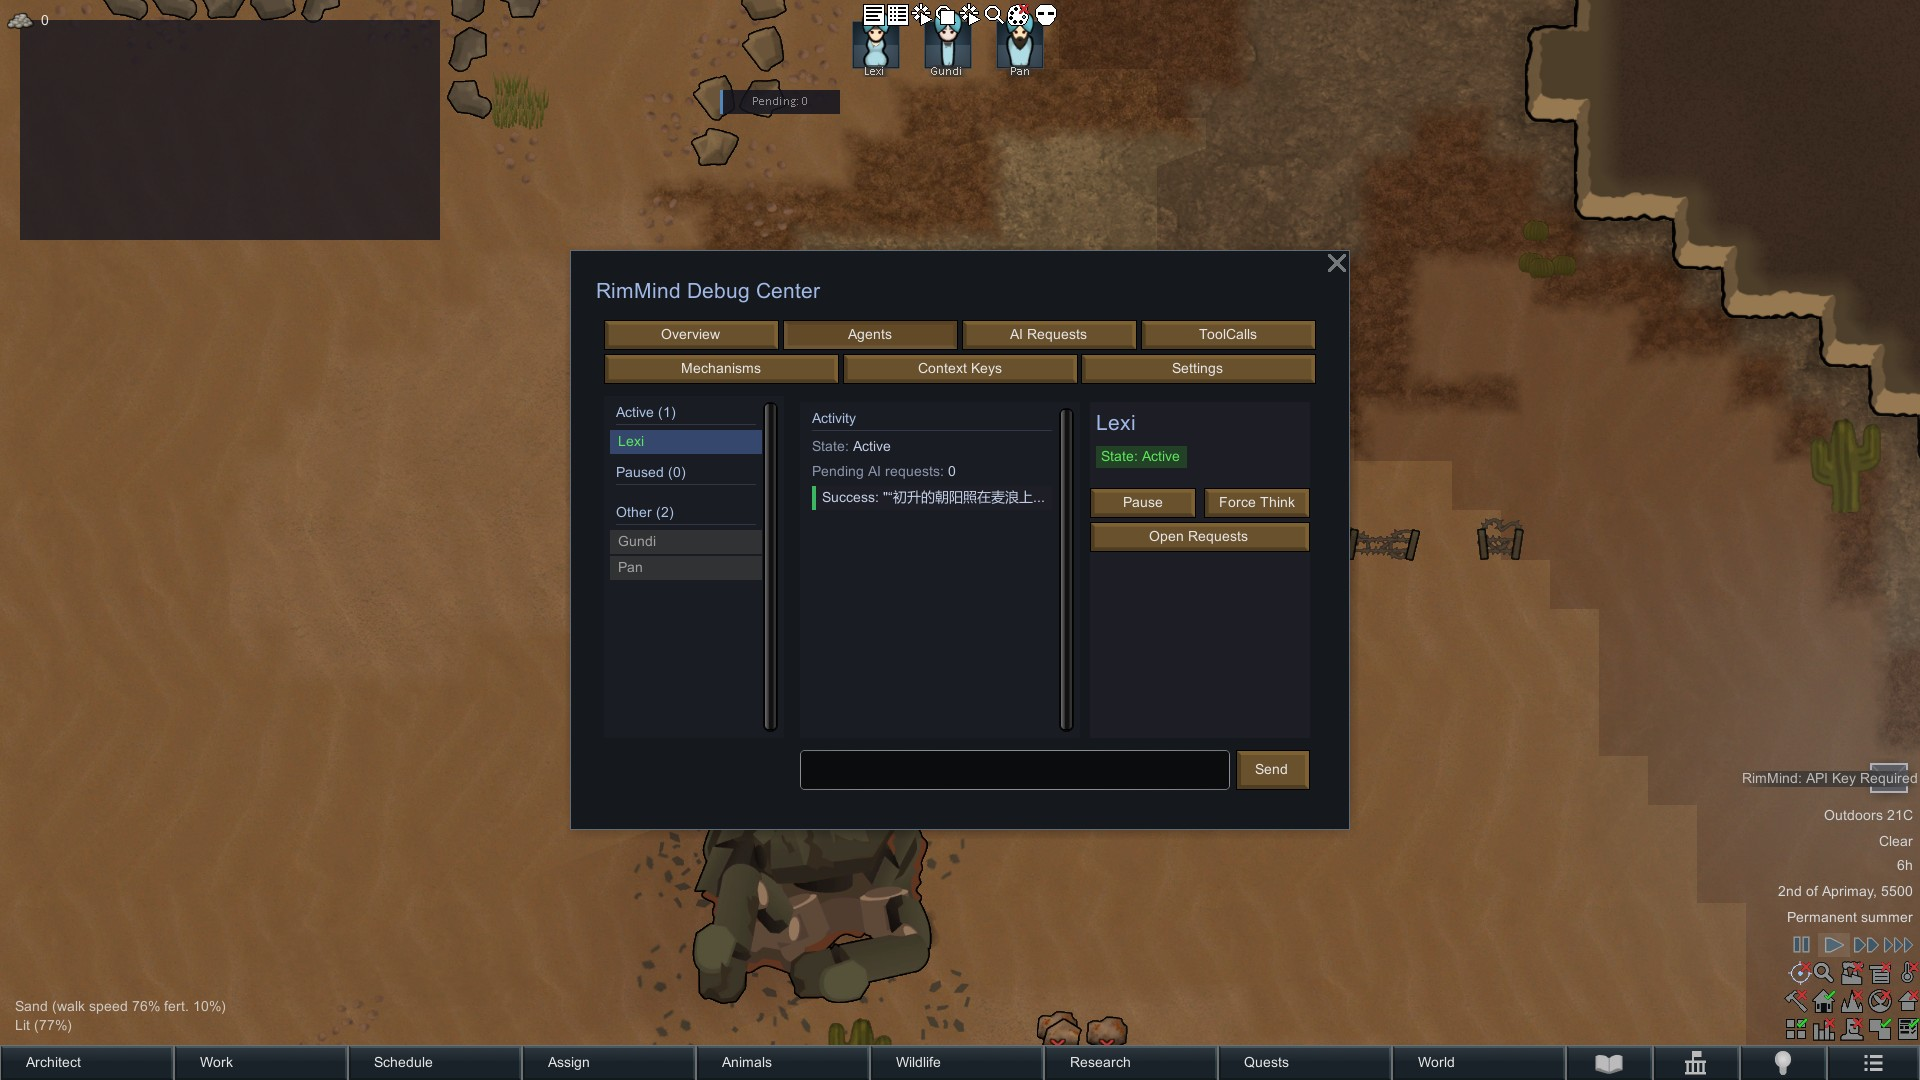
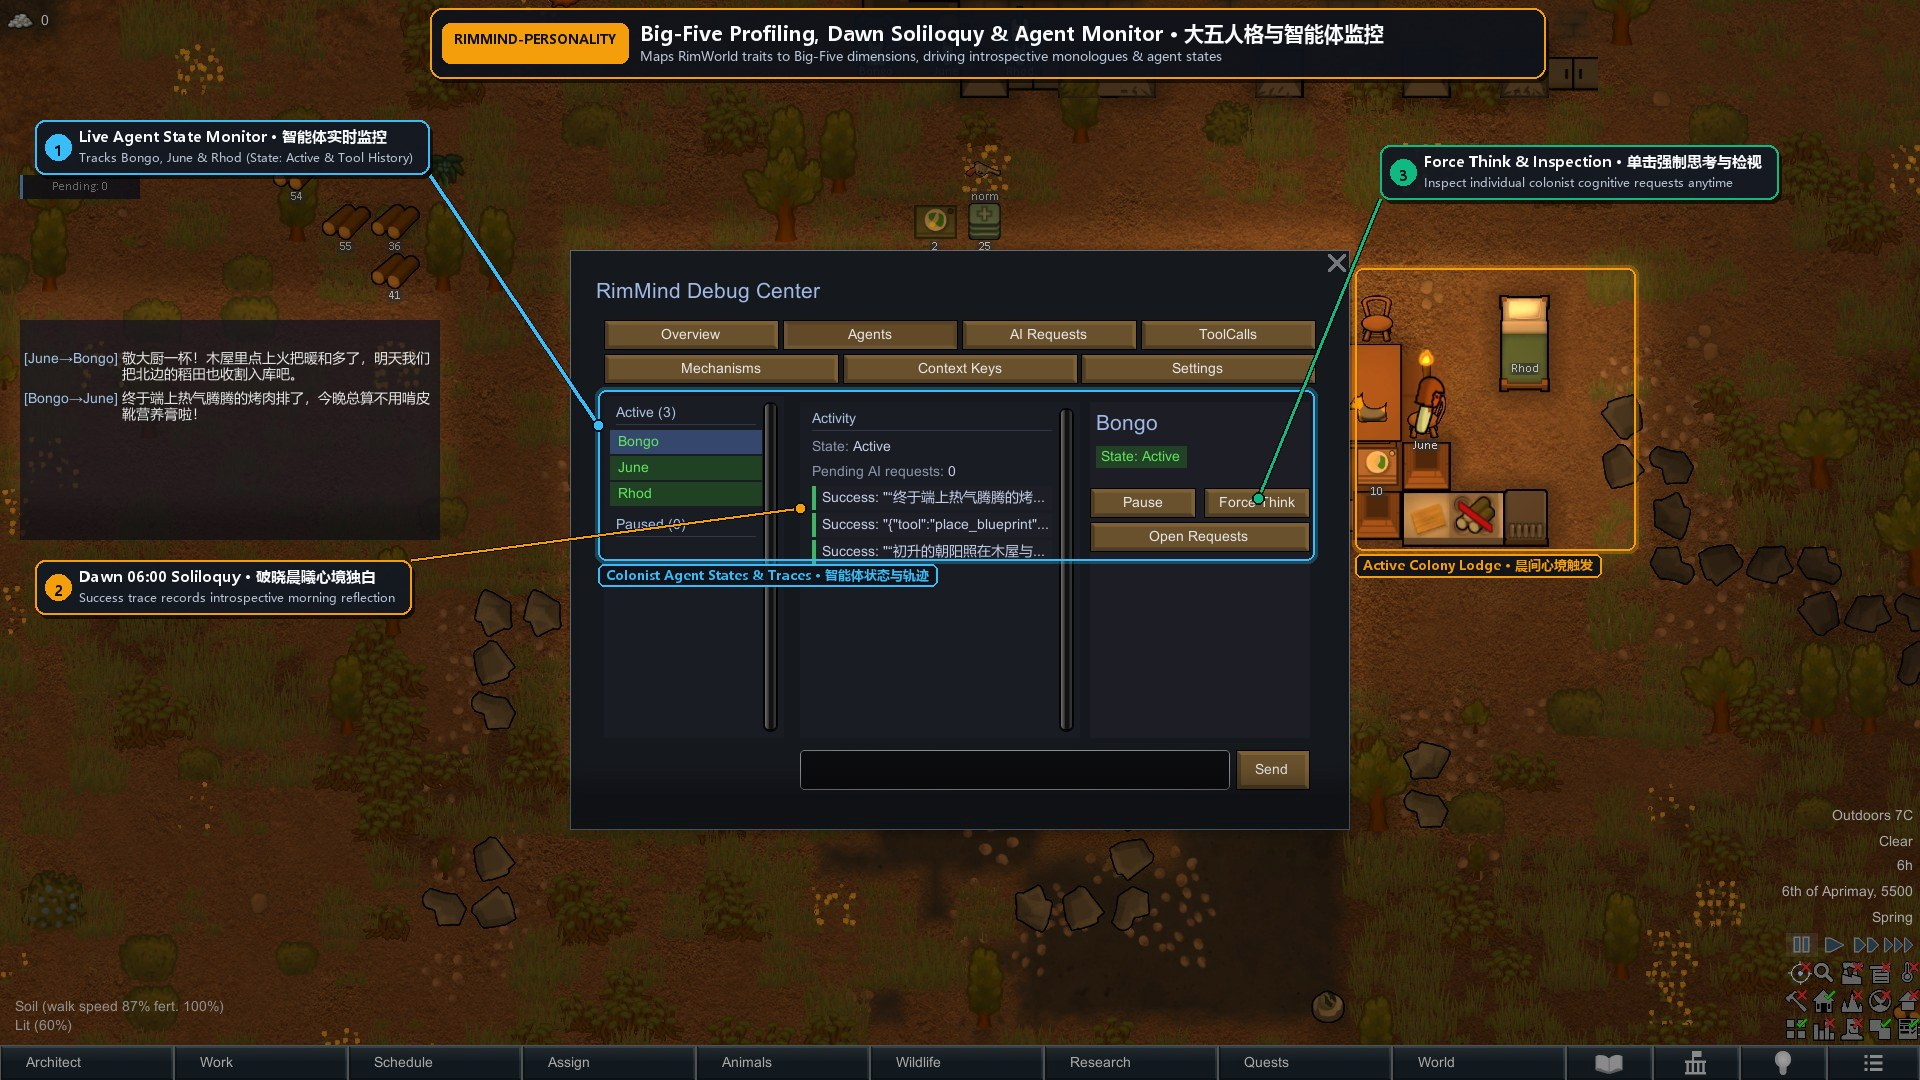
docs(showcase): update annotated in-game showcase image and bilingual captions (#21)
docs: update showcase image and caption to feature agent state monitor

Replace the showcase screenshot with one showing the F8 Agents panel
tracking active colonist agents, Force Think diagnostics, and the dawn
soliloquy traces. Update both README captions to match.

diff --git a/README.md b/README.md
@@ -36,7 +36,7 @@
 ## 🎮 In-Game Showcase
 
 ![RimMind-Personality Showcase](docs/images/showcase.jpg)
-*Dawn soliloquy in action: A colonist standing in the morning light triggers an introspective thought bubble reflecting their Big-Five traits.*
+*Live Agent State Monitor & Dawn 06:00 Soliloquy: Tracking active colonist agents (`Bongo`, `June`, `Rhod`), one-click `Force Think` diagnostics, and introspective morning soliloquy traces alongside the active colony lodge.*
 
 ---
 

diff --git a/README_zh.md b/README_zh.md
@@ -36,7 +36,7 @@
 ## 🎮 实机特性展示
 
 ![RimMind-Personality 实机展示](docs/images/showcase.jpg)
-*晨曦心境独白实机：清晨时分，殖民者在阳光下自发产生反映其大五人格特质的心境独白与气泡。*
+*智能体状态监控与晨曦独白实机：在 F8 `Agents` 面板实时追踪 `Bongo`、`June`、`Rhod` 的活跃认知状态、单击 `Force Think` 强制思考，并检视破晓晨曦触发的内省独白记录。*
 
 ---
 
